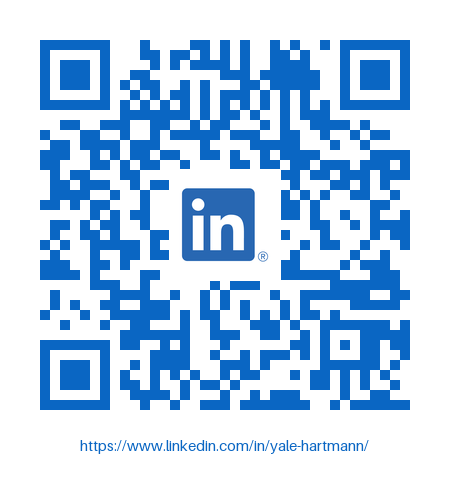
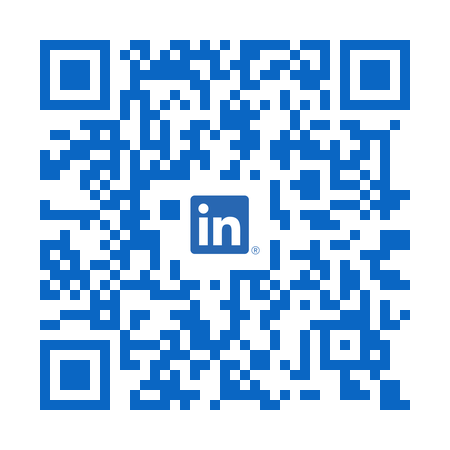
more qr codes

diff --git a/generate.py b/generate.py
@@ -4,11 +4,12 @@ from PIL import Image, ImageDraw, ImageFont
 import click
 
 @click.command()
-@click.option('--logo-path', default='g4g.jpg', help='Path to the logo image.')
-@click.option('--url', default='https://www.geeksforgeeks.org/', help='URL or text to encode in the QR code.')
-@click.option('--qr-color', default='Green', help='Color of the QR code.')
-@click.option('--output', default='gfg_QR.png', help='Output file name for the generated QR code.')
-def generate_qr(logo_path, url, qr_color, output):
+@click.option('--logo-path', default='logos/github/github-mark.png', help='Path to the logo image.')
+@click.option('--url', default='https://github.com/saniamos/', help='URL or text to encode in the QR code.')
+@click.option('--qr-color', default='#24292f', help='Color of the QR code.')
+@click.option('--output', default='codes/github.png', help='Output file name for the generated QR code.')
+@click.option('--include-url', is_flag=True, help='Include the URL text at the bottom of the QR code.')
+def generate_qr(logo_path, url, qr_color, output, include_url):
     # taking image which user wants in the QR code center
     logo = Image.open(logo_path)
 
@@ -39,9 +40,10 @@ def generate_qr(logo_path, url, qr_color, output):
     QRimg = QRcode.make_image(
         fill_color=qr_color, back_color="white").convert('RGB')
 
-    # calculate the size of the QR code's grid
-    qr_size = QRimg.size[0]
-    logo_size = int(qr_size * 0.25)  # logo should be 25% of the QR code size
+    # calc the amount of squares the image should take up
+    # overall the image should take up 25% and as it is centered, so that left and right of center are the same amounts covered
+    assert QRcode.modules_count % 2 == 1, "I'm assuming there is always a center row"
+    logo_size = (int(QRcode.modules_count * .125) * 2 + 1) * QRcode.box_size
 
     # resize logo_with_border to fit the QR code grid
     logo_with_border = logo_with_border.resize((logo_size, logo_size), Image.LANCZOS)
@@ -51,19 +53,21 @@ def generate_qr(logo_path, url, qr_color, output):
            (QRimg.size[1] - logo_with_border.size[1]) // 2)
     QRimg.paste(logo_with_border, pos)
 
-    # extend the canvas to add the URL at the bottom
-    new_height = QRimg.size[1] + 40  # Add space for the text
-    extended_img = Image.new('RGB', (QRimg.size[0], new_height), 'white')
-    extended_img.paste(QRimg, (0, 0))
+    if include_url:
+        # extend the canvas to add the URL at the bottom
+        new_height = QRimg.size[1] + 40  # Add space for the text
+        extended_img = Image.new('RGB', (QRimg.size[0], new_height), 'white')
+        extended_img.paste(QRimg, (0, 0))
 
-    # draw the URL text at the bottom
-    draw = ImageDraw.Draw(extended_img)
-    draw.text((QRimg.size[1] // 2, QRimg.size[1] - 10), url, fill=qr_color, font_size=15, anchor="mt")
+        # draw the URL text at the bottom
+        draw = ImageDraw.Draw(extended_img)
+        draw.text((QRimg.size[1] // 2, QRimg.size[1] - 10), url, fill=qr_color, font_size=15, anchor="mt")
+        QRimg = extended_img
 
     # save the QR code generated
-    extended_img.save(output)
+    QRimg.save(output)
 
-    print('QR code generated!')
+    print(f'Generated: {url}')
 
 if __name__ == '__main__':
     generate_qr()
